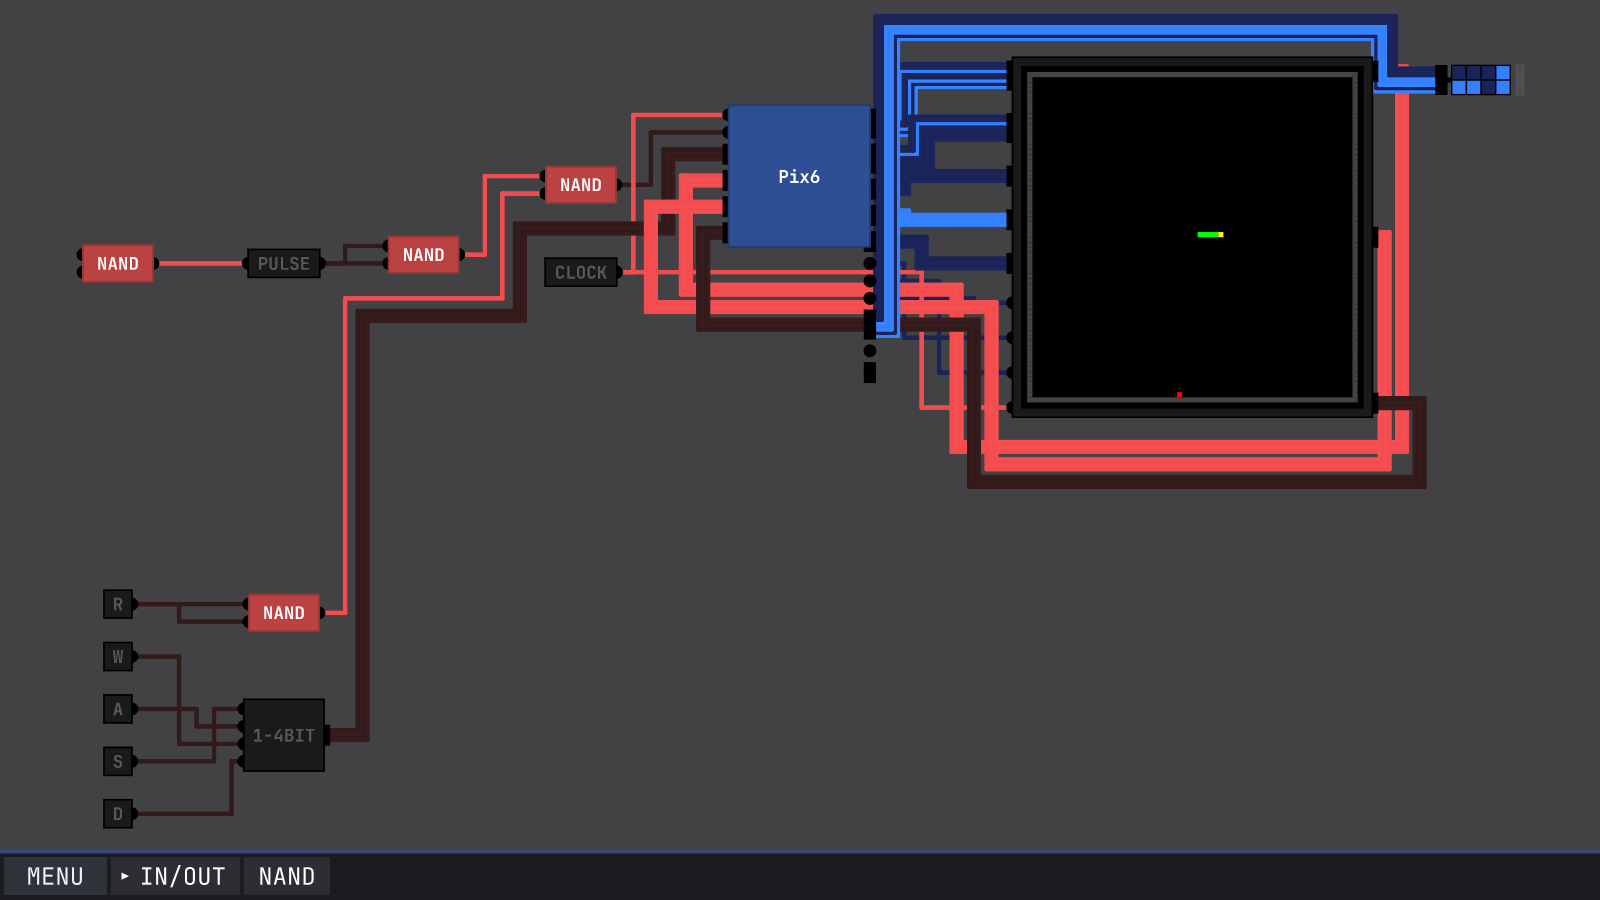
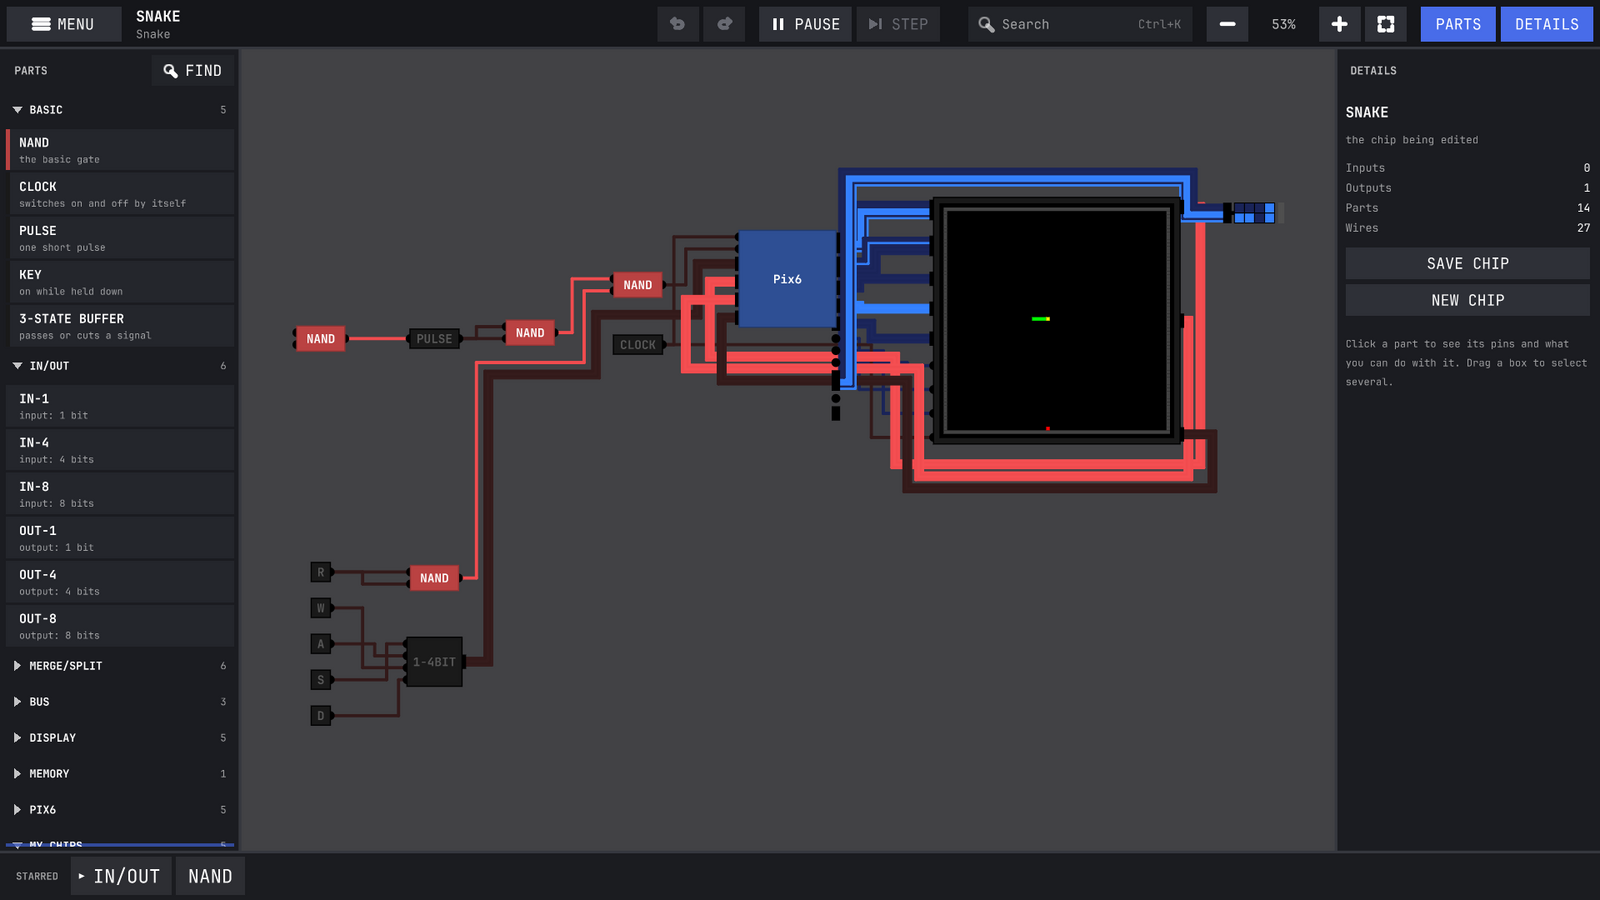
README: screenshots of the new desktop editor and start screen
Claude-Session: https://claude.ai/code/session_01DjBc4sNjZL2o3wZGnigch5

diff --git a/README.md b/README.md
@@ -23,7 +23,7 @@ Free and open source · Windows · Linux · Android · MIT licence
 <a href="https://github.com/patyczak232323/Rewired/stargazers"><img src="https://img.shields.io/github/stars/patyczak232323/Rewired?style=social" alt="Stars"></a>
 </p>
 
-<p align="center"><img src="Docs/images/snake-pix6.png" alt="Rewired running the bundled Snake project: the PIX6 processor drives a 64 by 64 colour screen, with W A S D keys, a clock and a power-on reset wired to it" width="900"></p>
+<p align="center"><img src="Docs/images/snake-pix6.png" alt="Rewired editing the bundled Snake project: the parts panel on the left, the PIX6 processor driving a 64 by 64 colour screen in the middle, the details panel on the right and the top bar with undo, run, step, search and zoom" width="900"></p>
 <p align="center"><i>The Snake project that ships with Rewired: a small processor made of logic gates, a 64×64 screen and four keys.</i></p>
 
 **Rewired** is a free, open-source **digital logic simulator** and **logic gate circuit simulator** for learning **digital electronics**, **Boolean logic** and **computer architecture**. Start with a single NAND gate, build your own chips, and keep going until you have an ALU, registers, RAM and a working CPU. Rewired is a desktop and Android app built with Unity, with a deterministic, JIT-accelerated simulation engine and **RHDL**, a small **hardware description language** in plain words that turns source code into gate-level circuits.
@@ -36,7 +36,7 @@ Rewired is based on Sebastian Lague's [Digital Logic Sim](https://github.com/Seb
 |---|---|
 | <img src="Docs/images/rhdl-studio.png" alt="RHDL Studio: an 8-bit ALU written in RHDL, with the compiler status and a quick reference" width="440"> | <img src="Docs/images/rhdl-generated-alu.png" alt="The ALU from RHDL Studio built as a circuit of NAND gates in the editor" width="440"> |
 
-<p align="center"><img src="Docs/images/main-menu.png" alt="Rewired main menu" width="600"></p>
+<p align="center"><img src="Docs/images/main-menu.png" alt="Rewired start screen: recent projects and the bundled Snake, CPU8 and Core8 examples next to the main buttons" width="700"></p>
 
 ## Who it is for
 
@@ -82,7 +82,8 @@ The repository includes a compact example progression ending with a **4-bit CPU*
 - breakpoints: pause when a pin changes, rises, falls or reaches a value
 - export to structural Verilog, SVG schematics and PNG screenshots
 - 64 x 64 colour screen (4 bits per channel, double-buffered) for games and graphics demos
-- Snake example project, installed on first start
+- Snake, CPU8 and Core8 example projects, installed on first start and listed on the start screen
+- desktop editor with a parts panel, a details panel for the selection, search for parts and commands (Ctrl+K) and a list of every shortcut (F1)
 - updates from GitHub Releases inside the app on Windows, Linux and Android
 - Windows x64, Linux x86_64, WebGL (browser) and Android ARM64 (experimental) release builds
 - touch interface for Android tablets and phones, held sideways or upright (Settings → Screen): drag parts from a categorised panel, tap a part for its actions, one-finger panning, on-screen keys for KEY chips (play Snake without a keyboard) and a step-by-step guide
